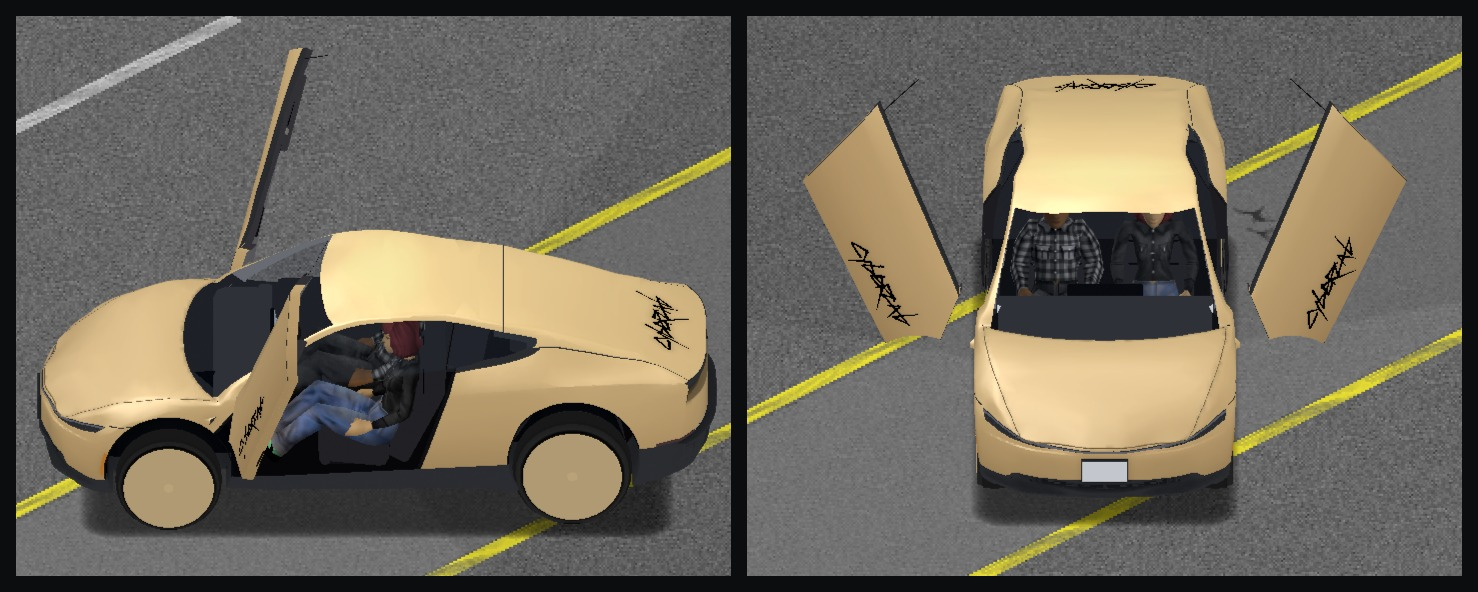
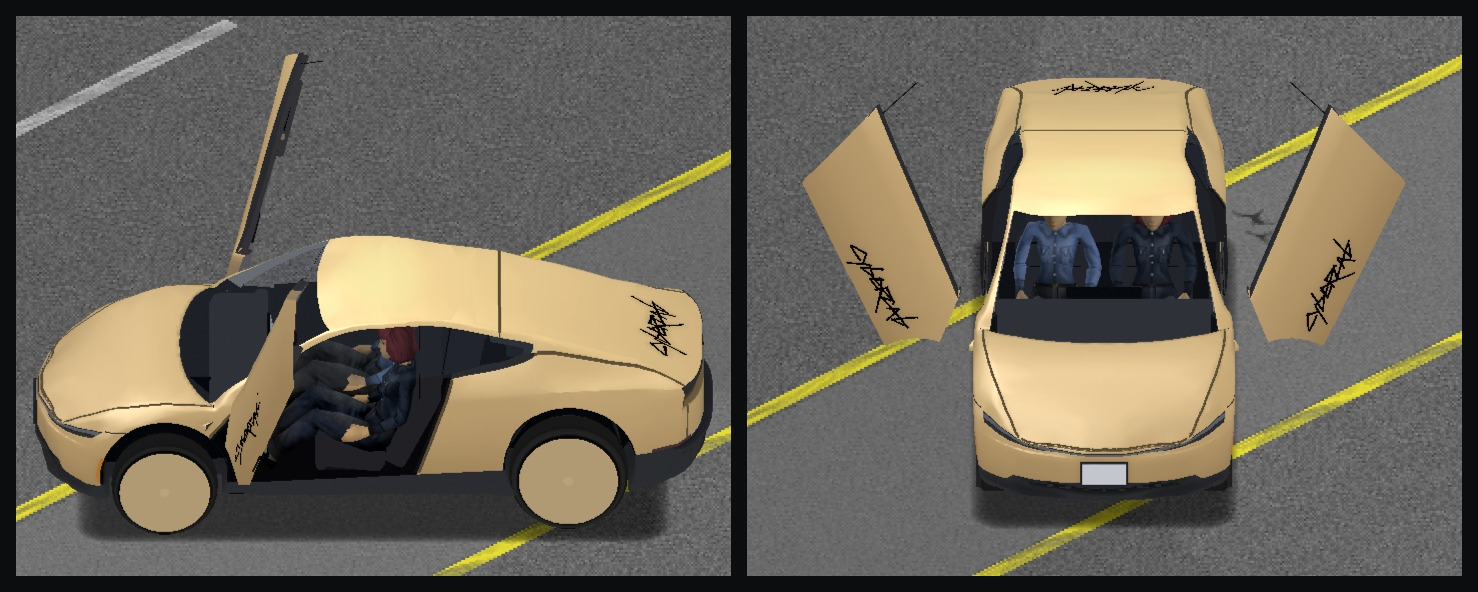
Steam 40 改用 seated2-mp 第三台客戶端鏡頭重拍
- 圖來自 R3 p09r3-seated2-mp-cc（MOD adba99e8），畫面沒有名字與座位號，不再用路面蓋掉

- 指南第 5 行截圖註解改指家族 seated2-mp 的 make_jpg.py

diff --git a/STEAM_GUIDE_EN.md b/STEAM_GUIDE_EN.md
@@ -2,7 +2,7 @@
 <!-- Steam guide source (English). The full description lives in this guide; the Workshop page only has a summary. Format and sync: pz-family-docs/release.md "完整說明：Steam 指南" -->
 <!-- 標題：📖 Minidoracat Tesla Collection Mod Guide: Cars, Charging, Keys and the App -->
 <!-- 摘要：A picture guide to Minidoracat Tesla Collection: the Model Y and Model 3 Performance, the Model Y L (six seats), the Model S and Model X Plaid (falcon wing doors and six seats), the first-generation Roadster 2.5 Sport (soft top), the Cybertruck Cyberbeast (cargo bed, Powershare home backup and the bed outlets), the Cybercab (a two-seat robotaxi: doors that swing up, no steering wheel, the charge port at the back), the Tesla Semi (an electric semi truck: a centre driver's seat, 1,200 kW Supercharging and a 53 ft box trailer to hitch), the battery and towing, the Wall Connector, the Mobile Connector and the V4 Superchargers at gas stations, the Tesla-style dashboard, key cards and phone keys, the Tesla app and Summon, Sentry and Camp Mode, Bioweapon Defense Mode and Chill, drive unit parts, and how it works with Vehicle Manager, the MiniMap, AutoDrive and Project Viewpoint, plus the sandbox options. -->
-<!-- Screenshots: docs/screenshots/steam/en/, shot by guide-shots-sp in the family repo's e2e/MinidoracatTeslaFor42 (Bioweapon Defense and Chill only: --define part=feat, with hover.py for the radial's hover text; Cybertruck shots: guide-ct-sp; Model S / X: guide-sx-sp; Model Y L shots (33, 34): guide-yl-sp; Roadster shots (35, 36): guide-rd-sp (one CH run, same pictures as zh; 35 is four cars facing S at zoom 1.0 cropped (210,622,1710,967), 36 is one Radiant Red car with the soft top closed and stowed at zoom 0.5, each cropped (284,320,854,880), side by side with a 16 px gap); Cybercab shots (37, 38, 39): guide-cc-sp (one CH run, same pictures as zh; 37 is gcc-line-075, the left car facing S and the right one facing N at zoom 0.75 cropped (330,340,1590,710); 38 is one car facing S at zoom 0.5, gcc-doors-open-050 (both doors open by the app's Doors button) beside gcc-doors-trunk-050 (doors shut, trunk lid open), each cropped (220,260,935,820), side by side with a 16 px gap; 39 is gcc-charge-050, the car facing W with its tail plugged into a V4 Supercharger at zoom 0.5 cropped (150,320,1110,800)); Cybercab with two riders (40): this repo's one-off temp/plan-next8-1114/e2e/oneoff/seated2-rv-mp (multiplayer, two accounts in one car, both doors open, zoomed all the way in), seated2-open-SW cropped (598,280,1313,840) beside seated2-open-SE cropped (651,350,1366,910) with a 16 px gap, same picture as zh; multiplayer always draws the seat number and account name above the roof, so that label is covered with the road next to it, the car and the riders are not retouched; Summon shots: phone-summon-sp; FSD: fsd-shot-sp (01c is 01b cropped (350,370,1090,977), not used in the guide, referenced by the Workshop description: re-crop it when 01b is reshot and update the image URL in the description, see release.md); With other mods: guide-mods-sp; Project Viewpoint (31): vd-first-ModelS from this repo's one-off temp/oneoff/vp-detail-sp, cropped (80,40,1660,1080), same picture as zh, needs ZombieBuddy; V4 Supercharger (32): supercharger-sp's sc-EN-card / sc-CH-card, cropped (480,160,1480,990); Semi shots (41, 42, 43): guide-semi-sp, JPGs made by the make_jpg.py in its folder (41 is gsm-truck-side-125 from the CH run, the Semi with its trailer beside a Model Y for scale, zoom 1.25 cropped (400,0,1540,800), same picture as zh; 42 is gsm-hitch-075, the hitch radial opened with V from beside the fifth wheel, zoom 0.75 cropped (280,70,1350,790), one CH and one EN run; 43 needs its own run with --define only=charge, because charging after the whole run is already past the 1,200 kW stretch: gsm-charge-075, the tractor alone plugged into a V4 Supercharger, zoom 0.75 cropped (140,100,1230,970), one CH and one EN run)) -->
+<!-- Screenshots: docs/screenshots/steam/en/, shot by guide-shots-sp in the family repo's e2e/MinidoracatTeslaFor42 (Bioweapon Defense and Chill only: --define part=feat, with hover.py for the radial's hover text; Cybertruck shots: guide-ct-sp; Model S / X: guide-sx-sp; Model Y L shots (33, 34): guide-yl-sp; Roadster shots (35, 36): guide-rd-sp (one CH run, same pictures as zh; 35 is four cars facing S at zoom 1.0 cropped (210,622,1710,967), 36 is one Radiant Red car with the soft top closed and stowed at zoom 0.5, each cropped (284,320,854,880), side by side with a 16 px gap); Cybercab shots (37, 38, 39): guide-cc-sp (one CH run, same pictures as zh; 37 is gcc-line-075, the left car facing S and the right one facing N at zoom 0.75 cropped (330,340,1590,710); 38 is one car facing S at zoom 0.5, gcc-doors-open-050 (both doors open by the app's Doors button) beside gcc-doors-trunk-050 (doors shut, trunk lid open), each cropped (220,260,935,820), side by side with a 16 px gap; 39 is gcc-charge-050, the car facing W with its tail plugged into a V4 Supercharger at zoom 0.5 cropped (150,320,1110,800)); Cybercab with two riders (40): seated2-mp with --clients 3 --define cam=1 (multiplayer, two accounts in one car, both doors open, a third client as the camera so no name or seat number is drawn), JPG made by the make_jpg.py in its folder (cam-seated2-open-SW beside cam-seated2-open-SE, each a 715x560 box around the car's screen position, 16 px gap, same picture as zh); Summon shots: phone-summon-sp; FSD: fsd-shot-sp (01c is 01b cropped (350,370,1090,977), not used in the guide, referenced by the Workshop description: re-crop it when 01b is reshot and update the image URL in the description, see release.md); With other mods: guide-mods-sp; Project Viewpoint (31): vd-first-ModelS from this repo's one-off temp/oneoff/vp-detail-sp, cropped (80,40,1660,1080), same picture as zh, needs ZombieBuddy; V4 Supercharger (32): supercharger-sp's sc-EN-card / sc-CH-card, cropped (480,160,1480,990); Semi shots (41, 42, 43): guide-semi-sp, JPGs made by the make_jpg.py in its folder (41 is gsm-truck-side-125 from the CH run, the Semi with its trailer beside a Model Y for scale, zoom 1.25 cropped (400,0,1540,800), same picture as zh; 42 is gsm-hitch-075, the hitch radial opened with V from beside the fifth wheel, zoom 0.75 cropped (280,70,1350,790), one CH and one EN run; 43 needs its own run with --define only=charge, because charging after the whole run is already past the 1,200 kW stretch: gsm-charge-075, the tractor alone plugged into a V4 Supercharger, zoom 0.75 cropped (140,100,1230,970), one CH and one EN run)) -->
 === 🚀 Quick start
 [b]中文版：[/b] [url=https://steamcommunity.com/sharedfiles/filedetails/?id=3829449828]Minidoracat Tesla Collection 完整說明[/url]
 

diff --git a/STEAM_GUIDE.md b/STEAM_GUIDE.md
@@ -2,7 +2,7 @@
 <!-- Steam 指南稿源（繁中）：MOD 的完整說明以本指南為準，簡介只放摘要。格式、版面與同步方式見 pz-family-docs/release.md「完整說明：Steam 指南」 -->
 <!-- 標題：📖 Minidoracat Tesla Collection MOD 完整說明：車、充電、鑰匙與 App -->
 <!-- 摘要：Minidoracat Tesla Collection 的圖文說明：Model Y 與 Model 3 Performance、Model Y L（六座）、Model S 與 Model X Plaid（鷹翼門與 6 座）、初代 Roadster 2.5 Sport（敞篷軟頂篷）、Cybertruck Cyberbeast（車斗、Powershare 住宅備援與車斗插座）、Cybercab（兩座無人計程車：上掀門、沒有方向盤、充電口在車尾）、Tesla Semi（電動半掛卡車：中置駕駛座、1,200 kW 超充、掛接 53 呎廂式半拖車）、電池與拖車耗電、壁掛式充電座、行動充電器與加油站的 V4 超級充電座、特斯拉風格儀表、卡片鑰匙與手機鑰匙、手機 Tesla App 與召喚、哨兵與露營模式、生物武器防禦模式與舒適模式、驅動單元零件，以及和 Vehicle Manager、小地圖、AutoDrive、Project Viewpoint 一起用的規則與沙盒選項。 -->
-<!-- 截圖：docs/screenshots/steam/zh/，拍法見家族庫 e2e/MinidoracatTeslaFor42 的 guide-shots-sp（生物武器防禦與舒適模式只跑那段用 --define part=feat，圓盤停留文字要另開 hover.py；Cybertruck 圖用 guide-ct-sp、Model S／X 圖用 guide-sx-sp、Model Y L 的圖（33、34）用 guide-yl-sp、Roadster 的圖（35、36）用 guide-rd-sp（只跑 CH 一輪、中英同一張；35 是四台車頭朝 S、縮放 1.0 裁 (210,622,1710,967)，36 是同一台 Radiant Red 軟頂篷蓋著與收起、縮放 0.5 各裁 (284,320,854,880) 左右拼、間隔 16）、Cybercab 的圖（37、38、39）用 guide-cc-sp（只跑 CH 一輪、中英同一張；37 是 gcc-line-075，左台朝 S、右台朝 N、縮放 0.75 裁 (330,340,1590,710)；38 是同一台朝 S、縮放 0.5，左 gcc-doors-open-050（App 車門鍵兩門全開）、右 gcc-doors-trunk-050（門關、行李廂蓋全開），各裁 (220,260,935,820) 左右拼、間隔 16；39 是 gcc-charge-050，車頭朝 W、車尾對 V4 超級充電座插著線、縮放 0.5 裁 (150,320,1110,800)）、Cybercab 坐進兩個人那張（40）是本 repo 一次性情境 temp/plan-next8-1114/e2e/oneoff/seated2-rv-mp（多人、兩個帳號坐同一台、兩扇門全開、縮放拉到最近）的 seated2-open-SW 裁 (598,280,1313,840) 與 seated2-open-SE 裁 (651,350,1366,910)，左右拼、間隔 16，中英同一張；多人模式一定會在車頂上方畫座位號與帳號名，用旁邊的路面蓋掉，車和人物不修、召喚圖用 phone-summon-sp、FSD 圖用 fsd-shot-sp（01c 是 01b 裁 (350,370,1090,977)，指南不用，給 Workshop 簡介引用：重拍 01b 要一起重裁，並照 release.md 換簡介裡的圖片網址）、「和其他 MOD 一起用」用 guide-mods-sp；Project Viewpoint 那張（31）是本 repo 一次性情境 temp/oneoff/vp-detail-sp 的 vd-first-ModelS 裁 (80,40,1660,1080)，中英同一張，要裝 ZombieBuddy 才拍得到；V4 超級充電座那張（32）是 supercharger-sp 的 sc-CH-card／sc-EN-card 裁 (480,160,1480,990)；Semi 的圖（41、42、43）用 guide-semi-sp，JPG 用它資料夾裡的 make_jpg.py 壓（41 是 CH 那輪的 gsm-truck-side-125，Semi 掛著拖車、旁邊一台 Model Y 比大小、縮放 1.25 裁 (400,0,1540,800)，中英同一張；42 是 gsm-hitch-075，站在鞍座旁按 V 的掛接圓盤、縮放 0.75 裁 (280,70,1350,790)，CH／EN 各一輪；43 要另跑 --define only=charge：整輪拍完才充電會超過 1,200 kW 那段，gsm-charge-075 是單車頭插著 V4 超級充電座、縮放 0.75 裁 (140,100,1230,970)，CH／EN 各一輪）） -->
+<!-- 截圖：docs/screenshots/steam/zh/，拍法見家族庫 e2e/MinidoracatTeslaFor42 的 guide-shots-sp（生物武器防禦與舒適模式只跑那段用 --define part=feat，圓盤停留文字要另開 hover.py；Cybertruck 圖用 guide-ct-sp、Model S／X 圖用 guide-sx-sp、Model Y L 的圖（33、34）用 guide-yl-sp、Roadster 的圖（35、36）用 guide-rd-sp（只跑 CH 一輪、中英同一張；35 是四台車頭朝 S、縮放 1.0 裁 (210,622,1710,967)，36 是同一台 Radiant Red 軟頂篷蓋著與收起、縮放 0.5 各裁 (284,320,854,880) 左右拼、間隔 16）、Cybercab 的圖（37、38、39）用 guide-cc-sp（只跑 CH 一輪、中英同一張；37 是 gcc-line-075，左台朝 S、右台朝 N、縮放 0.75 裁 (330,340,1590,710)；38 是同一台朝 S、縮放 0.5，左 gcc-doors-open-050（App 車門鍵兩門全開）、右 gcc-doors-trunk-050（門關、行李廂蓋全開），各裁 (220,260,935,820) 左右拼、間隔 16；39 是 gcc-charge-050，車頭朝 W、車尾對 V4 超級充電座插著線、縮放 0.5 裁 (150,320,1110,800)）、Cybercab 坐進兩個人那張（40）用 seated2-mp 跑 --clients 3 --define cam=1（多人、兩個帳號坐同一台、兩扇門全開，第三台客戶端當鏡頭，畫面沒有名字與座位號），JPG 用它資料夾裡的 make_jpg.py 做（cam-seated2-open-SW 與 cam-seated2-open-SE 依車在畫面上的座標各裁 715×560，左右拼、間隔 16，中英同一張）、召喚圖用 phone-summon-sp、FSD 圖用 fsd-shot-sp（01c 是 01b 裁 (350,370,1090,977)，指南不用，給 Workshop 簡介引用：重拍 01b 要一起重裁，並照 release.md 換簡介裡的圖片網址）、「和其他 MOD 一起用」用 guide-mods-sp；Project Viewpoint 那張（31）是本 repo 一次性情境 temp/oneoff/vp-detail-sp 的 vd-first-ModelS 裁 (80,40,1660,1080)，中英同一張，要裝 ZombieBuddy 才拍得到；V4 超級充電座那張（32）是 supercharger-sp 的 sc-CH-card／sc-EN-card 裁 (480,160,1480,990)；Semi 的圖（41、42、43）用 guide-semi-sp，JPG 用它資料夾裡的 make_jpg.py 壓（41 是 CH 那輪的 gsm-truck-side-125，Semi 掛著拖車、旁邊一台 Model Y 比大小、縮放 1.25 裁 (400,0,1540,800)，中英同一張；42 是 gsm-hitch-075，站在鞍座旁按 V 的掛接圓盤、縮放 0.75 裁 (280,70,1350,790)，CH／EN 各一輪；43 要另跑 --define only=charge：整輪拍完才充電會超過 1,200 kW 那段，gsm-charge-075 是單車頭插著 V4 超級充電座、縮放 0.75 裁 (140,100,1230,970)，CH／EN 各一輪）） -->
 === 🚀 快速上手
 [b]English version:[/b] [url=https://steamcommunity.com/sharedfiles/filedetails/?id=3829449879]Minidoracat Tesla Collection Mod Guide[/url]
 
